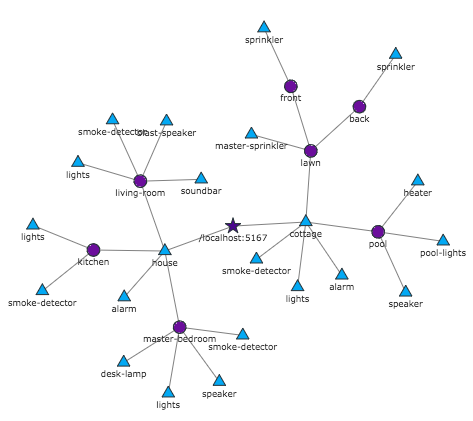
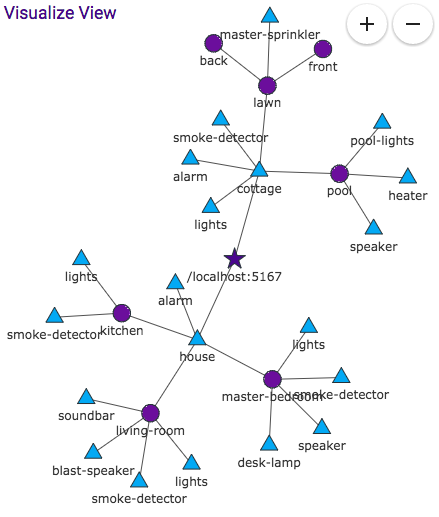
visualization updates
update npm package.json file
changed name and description
updated vis version
added visualize menu, zoom affordance
zoom in and out
keyboard enabled
redraw on window resize
improve physics constants
update help files
fix ali's comments
turn authentication back on

diff --git a/src/components/browse/items/visualize-view/index.js b/src/components/browse/items/visualize-view/index.js
@@ -4,7 +4,10 @@ var vis = require('vis');
 
 var namespaceService = require('../../../../services/namespace/service');
 
-var log = require('../../../../lib/log')('components:browse:items:tree-view');
+// var getServiceIcon = require('../../get-service-icon');
+
+var log = require('../../../../lib/log'
+    )('components:browse:items:visualize-view');
 
 var css = require('./index.css');
 var h = mercury.h;
@@ -28,14 +31,99 @@ function create() {}
 function render(itemsState, browseState, browseEvents, navEvents) {
   insertCss(css);
 
+  // var open = false;
+
   return [
     h('h2', 'Visualize View'),
-    new TreeWidget(browseState, browseEvents)
+    new TreeWidget(browseState, browseEvents),
+    h('div.vismenu', {  // visualization menu
+    }, [
+      // h('paper-fab#expand', {
+      //   attributes: {
+      //     mini: true,
+      //     icon: open ? 'expand-more' : 'chevron-right',
+      //     title: open ? 'expanded' : 'collapsed',
+      //     'aria-label': 'visualization mode',
+      //     'on-tap': 'expander()'
+      //   }
+      // }),
+      // h('paper-menu-button', [
+      //   h('paper-fab.mode', {
+      //     attributes: {
+      //       mini: true,
+      //       icon: 'menu',
+      //       title: 'visualization mode',
+      //       'aria-label': 'visualization mode'
+      //     }
+      //   }),
+      //   h('paper-dropdown.dropdown', {
+      //     attributes: {
+      //       // transition: ''
+      //     }
+      //   }, [
+      //     h('core-menu.menu', [
+      //       h('paper-item', 'Network'),
+      //       h('paper-item', 'Hierarchy')
+      //     ])
+      //   ])
+      // ]),
+      h('paper-fab.zoom', {
+        attributes: {
+          mini: true,
+          icon: 'add',
+          title: 'zoom in',
+          'aria-label': 'zoom in'
+        },
+        'ev-down': zoom.bind(null, true),
+        'ev-up': stopzoom
+      }),
+      h('paper-fab.zoom', {
+        attributes: {
+          mini: true,
+          icon: 'remove',
+          title: 'zoom out',
+          'aria-label': 'zoom out'
+        },
+        'ev-down': zoom.bind(null, false),
+        'ev-up': stopzoom
+      }),
+    ])
   ];
 }
 
+// The visjs visualization
+var network;
+
+var ZOOM_FACTOR = 0.01; // same as network.constants.keyboard.speed.zoom
+
+// start zooming on button press
+function zoom(zin, event) {
+  var zi = zin ? ZOOM_FACTOR : -ZOOM_FACTOR;
+  var selnodes; // selected nodes
+  if (event.shiftKey) {
+    selnodes = network.getSelection();
+    if (selnodes.nodes.length > 0) {
+      network.focusOnNode(selnodes.nodes[0], { animation: true });
+    } else {
+      network.zoomExtent(true);
+    }
+  }
+  network.zoomIncrement = zi;
+  network.start();
+}
+
+// stop zooming on button release
+function stopzoom() {
+  network.zoomIncrement = 0;
+}
+
+// redraw visualization when window resizes
+window.onresize = function redraw(e) {
+  network.redraw();
+};
+
 // Maximum number of levels that are automatically shown
-var MAX_AUTO_LOAD_DEPTH = 5;
+var MAX_AUTO_LOAD_DEPTH = 3;
 
 function TreeWidget(browseState, browseEvents) {
   this.browseState = browseState;
@@ -71,6 +159,7 @@ TreeWidget.prototype.initNetworkElem = function() {
 // We keep track of previous namespace that was browsed to so we can
 // know when navigating to a different namespace happens.
 var previousNamespace;
+
 TreeWidget.prototype.updateNetwork = function() {
   if (previousNamespace === this.browseState.namespace) {
     return;
@@ -101,6 +190,15 @@ TreeWidget.prototype.updateNetwork = function() {
     hover: false,
     selectable: true, // Need this or nodes won't be click-able
     smoothCurves: false,
+    physics: { barnesHut: {
+      gravitationalConstant: -2200,
+      centralGravity: 0.2,
+      springLength: 64,
+      springConstant: 0.075,
+      damping: 0.12
+    }},
+    keyboard: { speed: { x: -2, y: -2, zoom: 0.01 }},
+    // configurePhysics: true,
     edges: {
       width: 1
     },
@@ -112,7 +210,7 @@ TreeWidget.prototype.updateNetwork = function() {
   };
 
   // Start drawing the network.
-  var network = new vis.Network(networkElem, {
+  network = new vis.Network(networkElem, {
     nodes: this.nodes,
     edges: this.edges
   }, options);

diff --git a/web-component-dependencies.html b/web-component-dependencies.html
@@ -27,5 +27,8 @@ and the browserify transforms handles the bundling of wc dependencies at runtime
 <link rel="import" href="bower_components/paper-spinner/paper-spinner.html">
 <link rel="import" href="bower_components/paper-tabs/paper-tabs.html">
 <link rel="import" href="bower_components/paper-toast/paper-toast.html">
+<link rel="import" href="bower_components/paper-fab/paper-fab.html">
+<link rel="import" href="bower_components/paper-menu-button/paper-menu-button.html">
+<link rel="import" href="bower_components/paper-dropdown/paper-dropdown.html">
 <link rel="import" href="src/lib/web-components/paper-autocomplete/paper-autocomplete.html">
 <link rel="import" href="src/lib/web-components/tree-node/tree-node.html">

diff --git a/src/app.js b/src/app.js
@@ -129,7 +129,8 @@ onDocumentReady(function startApp() {
   mercury.app(document.body, state, render);
 
   // Add additional events that mercury's delegator should listenTo.
-  addDelegatedEvents(['core-overlay-open-completed', 'openchange', 'activate']);
+  addDelegatedEvents(['core-overlay-open-completed',
+      'down', 'up', 'openchange', 'activate']);
 
   function wireEvents() {
     // TODO(aghassemi): Make these events global.

diff --git a/src/components/browse/items/visualize-view/index.css b/src/components/browse/items/visualize-view/index.css
@@ -5,3 +5,19 @@
   right: 0;
   bottom: 0;
 }
+
+.vismenu {
+  position: absolute;
+  top: 5px;
+  right: 10px;
+}
+/*paper-fab#expand,
+paper-fab.mode,*/
+paper-fab.zoom
+ {
+  background-color: white;
+  margin: 5px 3px;
+}
+paper-dropdown.dropdown {
+  top: 50%;
+}

diff --git a/src/lib/web-components/tree-node/demo.html b/src/lib/web-components/tree-node/demo.html
@@ -1,4 +1,3 @@
-
 <!DOCTYPE html>
 <html><head>
   <title>Namespace tree menu</title>

diff --git a/src/components/help/content/browse.md b/src/components/help/content/browse.md
@@ -58,7 +58,15 @@ nodes and edges.
 
 ![Visualize View](helpimg/visualize.png)
 
-You can drag items (nodes) around to rearrange the graph,
-and can zoom in and out (if your mouse has a scroll wheel).
-As in the other views, you can click on items to show details for that item
-(in the right pane).
+You can drag individual items (nodes) around to rearrange the graph,
+and you can select items to show details for that item (in the right pane).
+You can drag the entire visualization around with your mouse,
+or using the arrow keys on your keyboard.
+You can zoom the entire visualization using the action buttons in
+the upper right, using the "Page Up" and "Page Down" keys on
+your keyboard, or using the scroll wheel on your mouse.
+
+The action buttons provide another useful function. If you hold down
+the shift key on your keyboard while pressing one of these buttons,
+it will center the visualization in the window, and then zoom in or out.
+If an item has been selected, then it will center that node.

diff --git a/src/components/help/content/main.md b/src/components/help/content/main.md
@@ -53,7 +53,8 @@ Relative Names
 
 A relative name does not begin with a slash.
 The meaning of a relative name depends on a root stored in your environment
-(this is similar to the concept of a "current directory").
+(this is similar to the concept of a "current directory", except it can
+be on a different device).
 
 For example, a user can have their own mount table where they store things
 they own. This mount table can contain names like "phone/messages" that
